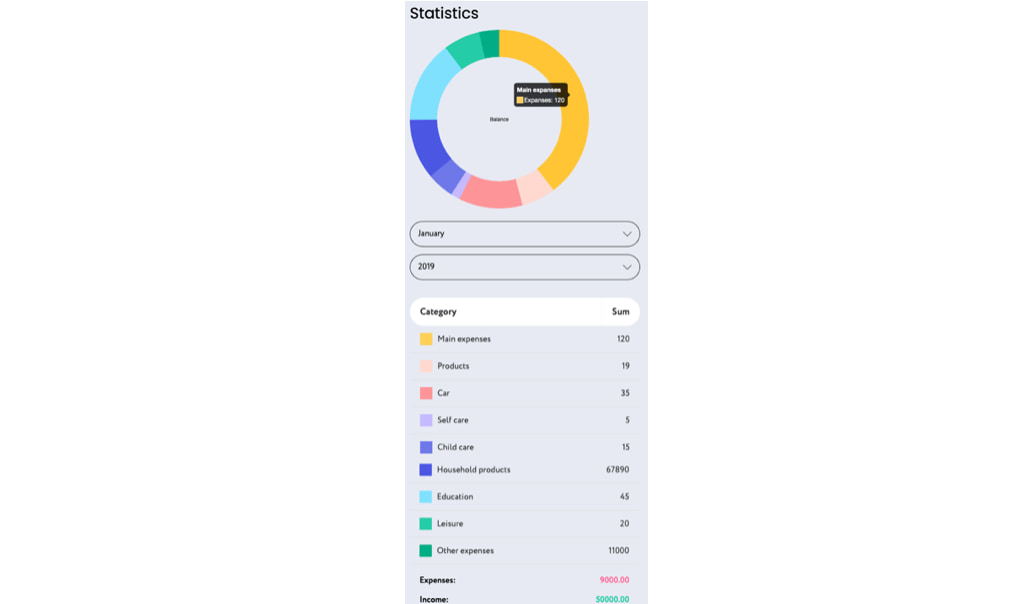
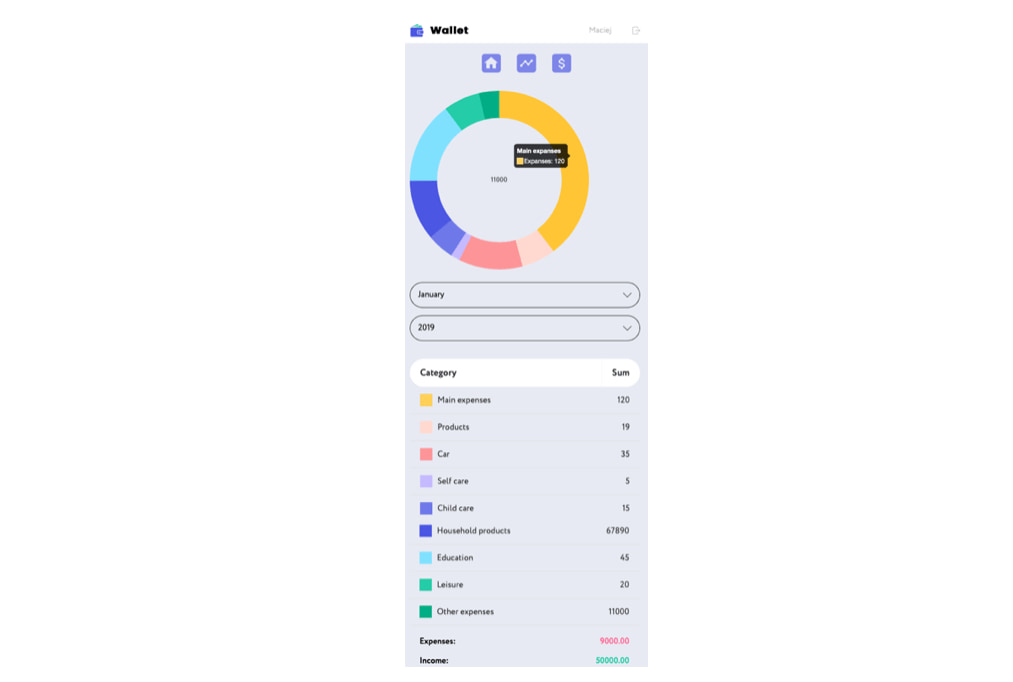
update  Readme - add statistic mobile, logout desktop and mobile, currency balance tablet desktop mobile

diff --git a/README.md b/README.md
@@ -22,9 +22,8 @@
 ## Mobile
 ### Login and Register Page 
 ![register-mobile](./imgReadme/login-register-mobile.jpg)
-### Balance Page
-
-### Currency Page
+### Balance and Currency Page
+![balance-carrency-mobile](./imgReadme/currency-balance-tablet.jpg)
 
 ### Add Transaction Page 
 
@@ -40,6 +39,7 @@
 ---
 
 ### Logout Page
+![logout-mobile](./imgReadme/logout-mobile.png)
 
 ---
 
@@ -49,11 +49,8 @@
 
 ---
 
-### Balance Page
-
----
-
-### Currency Page
+### Balance, Currency and Statistic Page
+![balance-currency-statistic](./imgReadme/balance-currency-statistic-%20tablet.jpg)
 
 ---
 
@@ -67,17 +64,7 @@
 
 ---
 
-### Statistics
-![statstic-tablet](./imgReadme/statistick-tablet.jpg)
-
----
-
 ### User Panel
-
----
-
-### Logout Page
-
 
 ---
 
@@ -93,12 +80,8 @@
 ![login-desktop](./imgReadme/login-desktop.jpg)
 ---
 
-### Balance Page
-
----
-
-### Currency Page
-
+### Balance, Curency and Statistic Page
+![balance-currency-desktop](./imgReadme/currency-balance-desktop.jpg)
 ---
 
 ### Add Transaction Page 
@@ -111,16 +94,12 @@
 
 ---
 
-### Statistics
-
----
-
 ### User Panel
 
 ---
 
 ### Logout Page
-
+![logout-desktop](./imgReadme/logout-desktop.jpg)
 ---
 
 ## General Information
